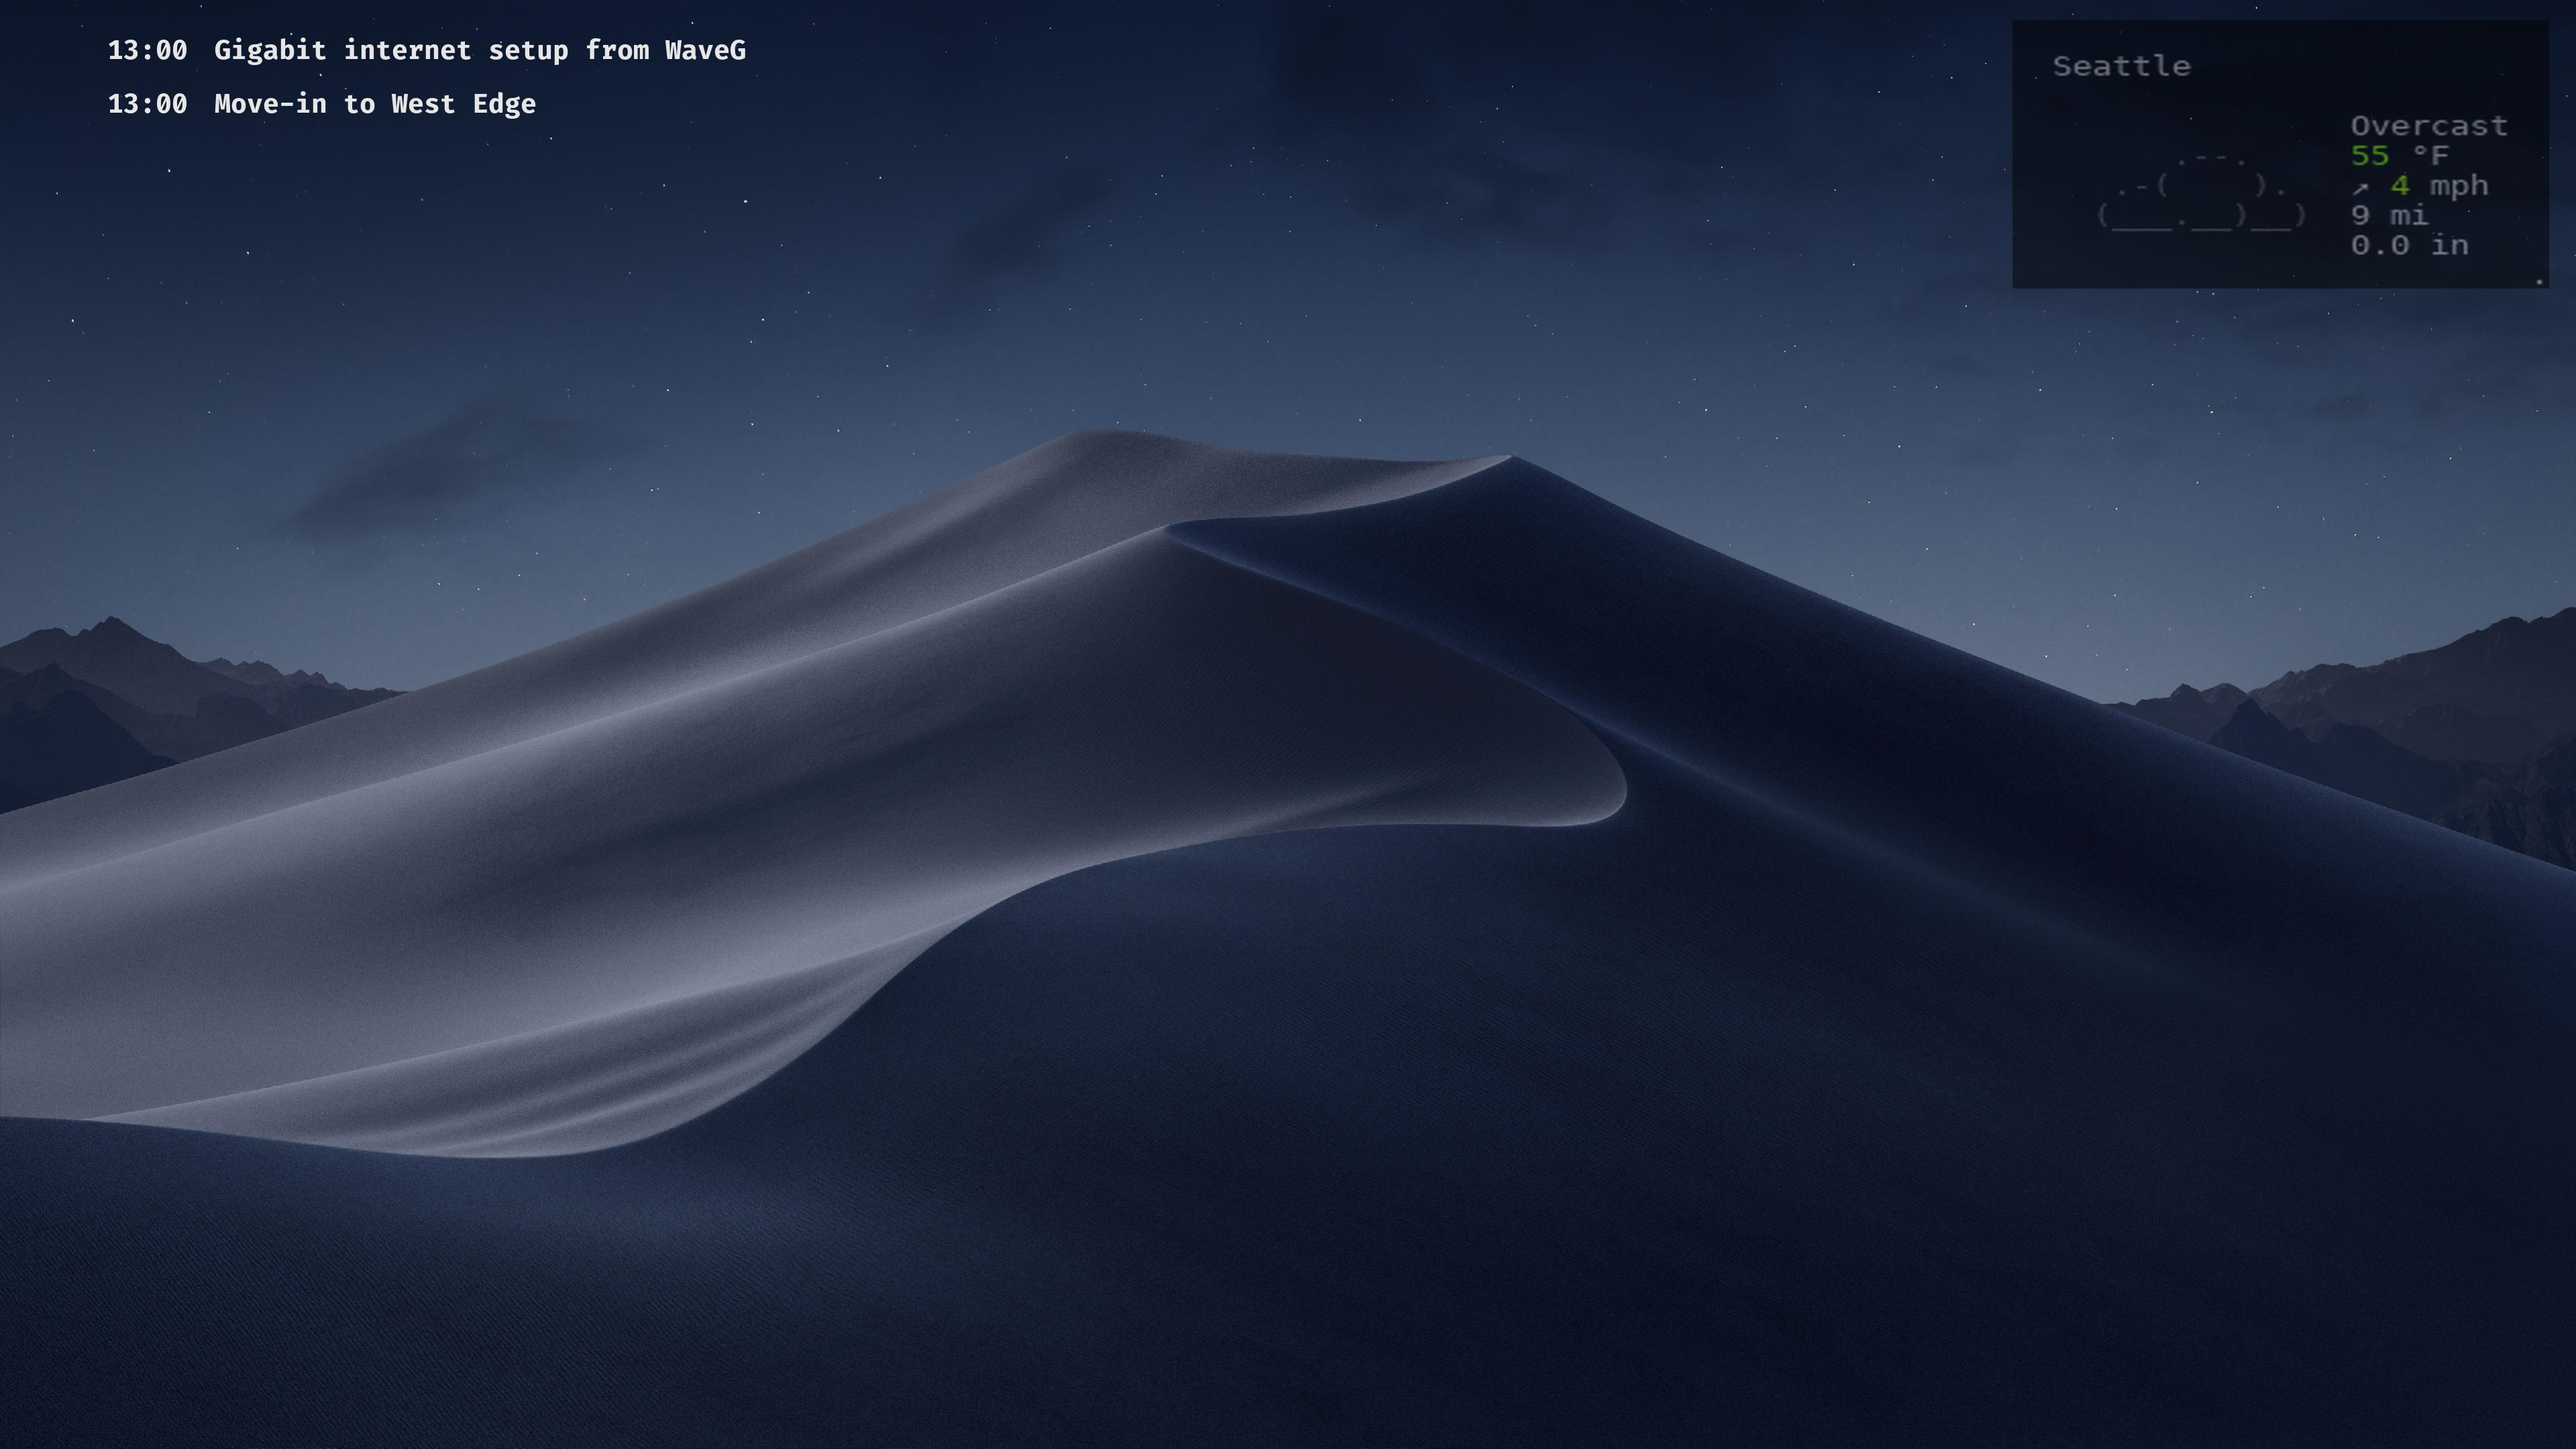
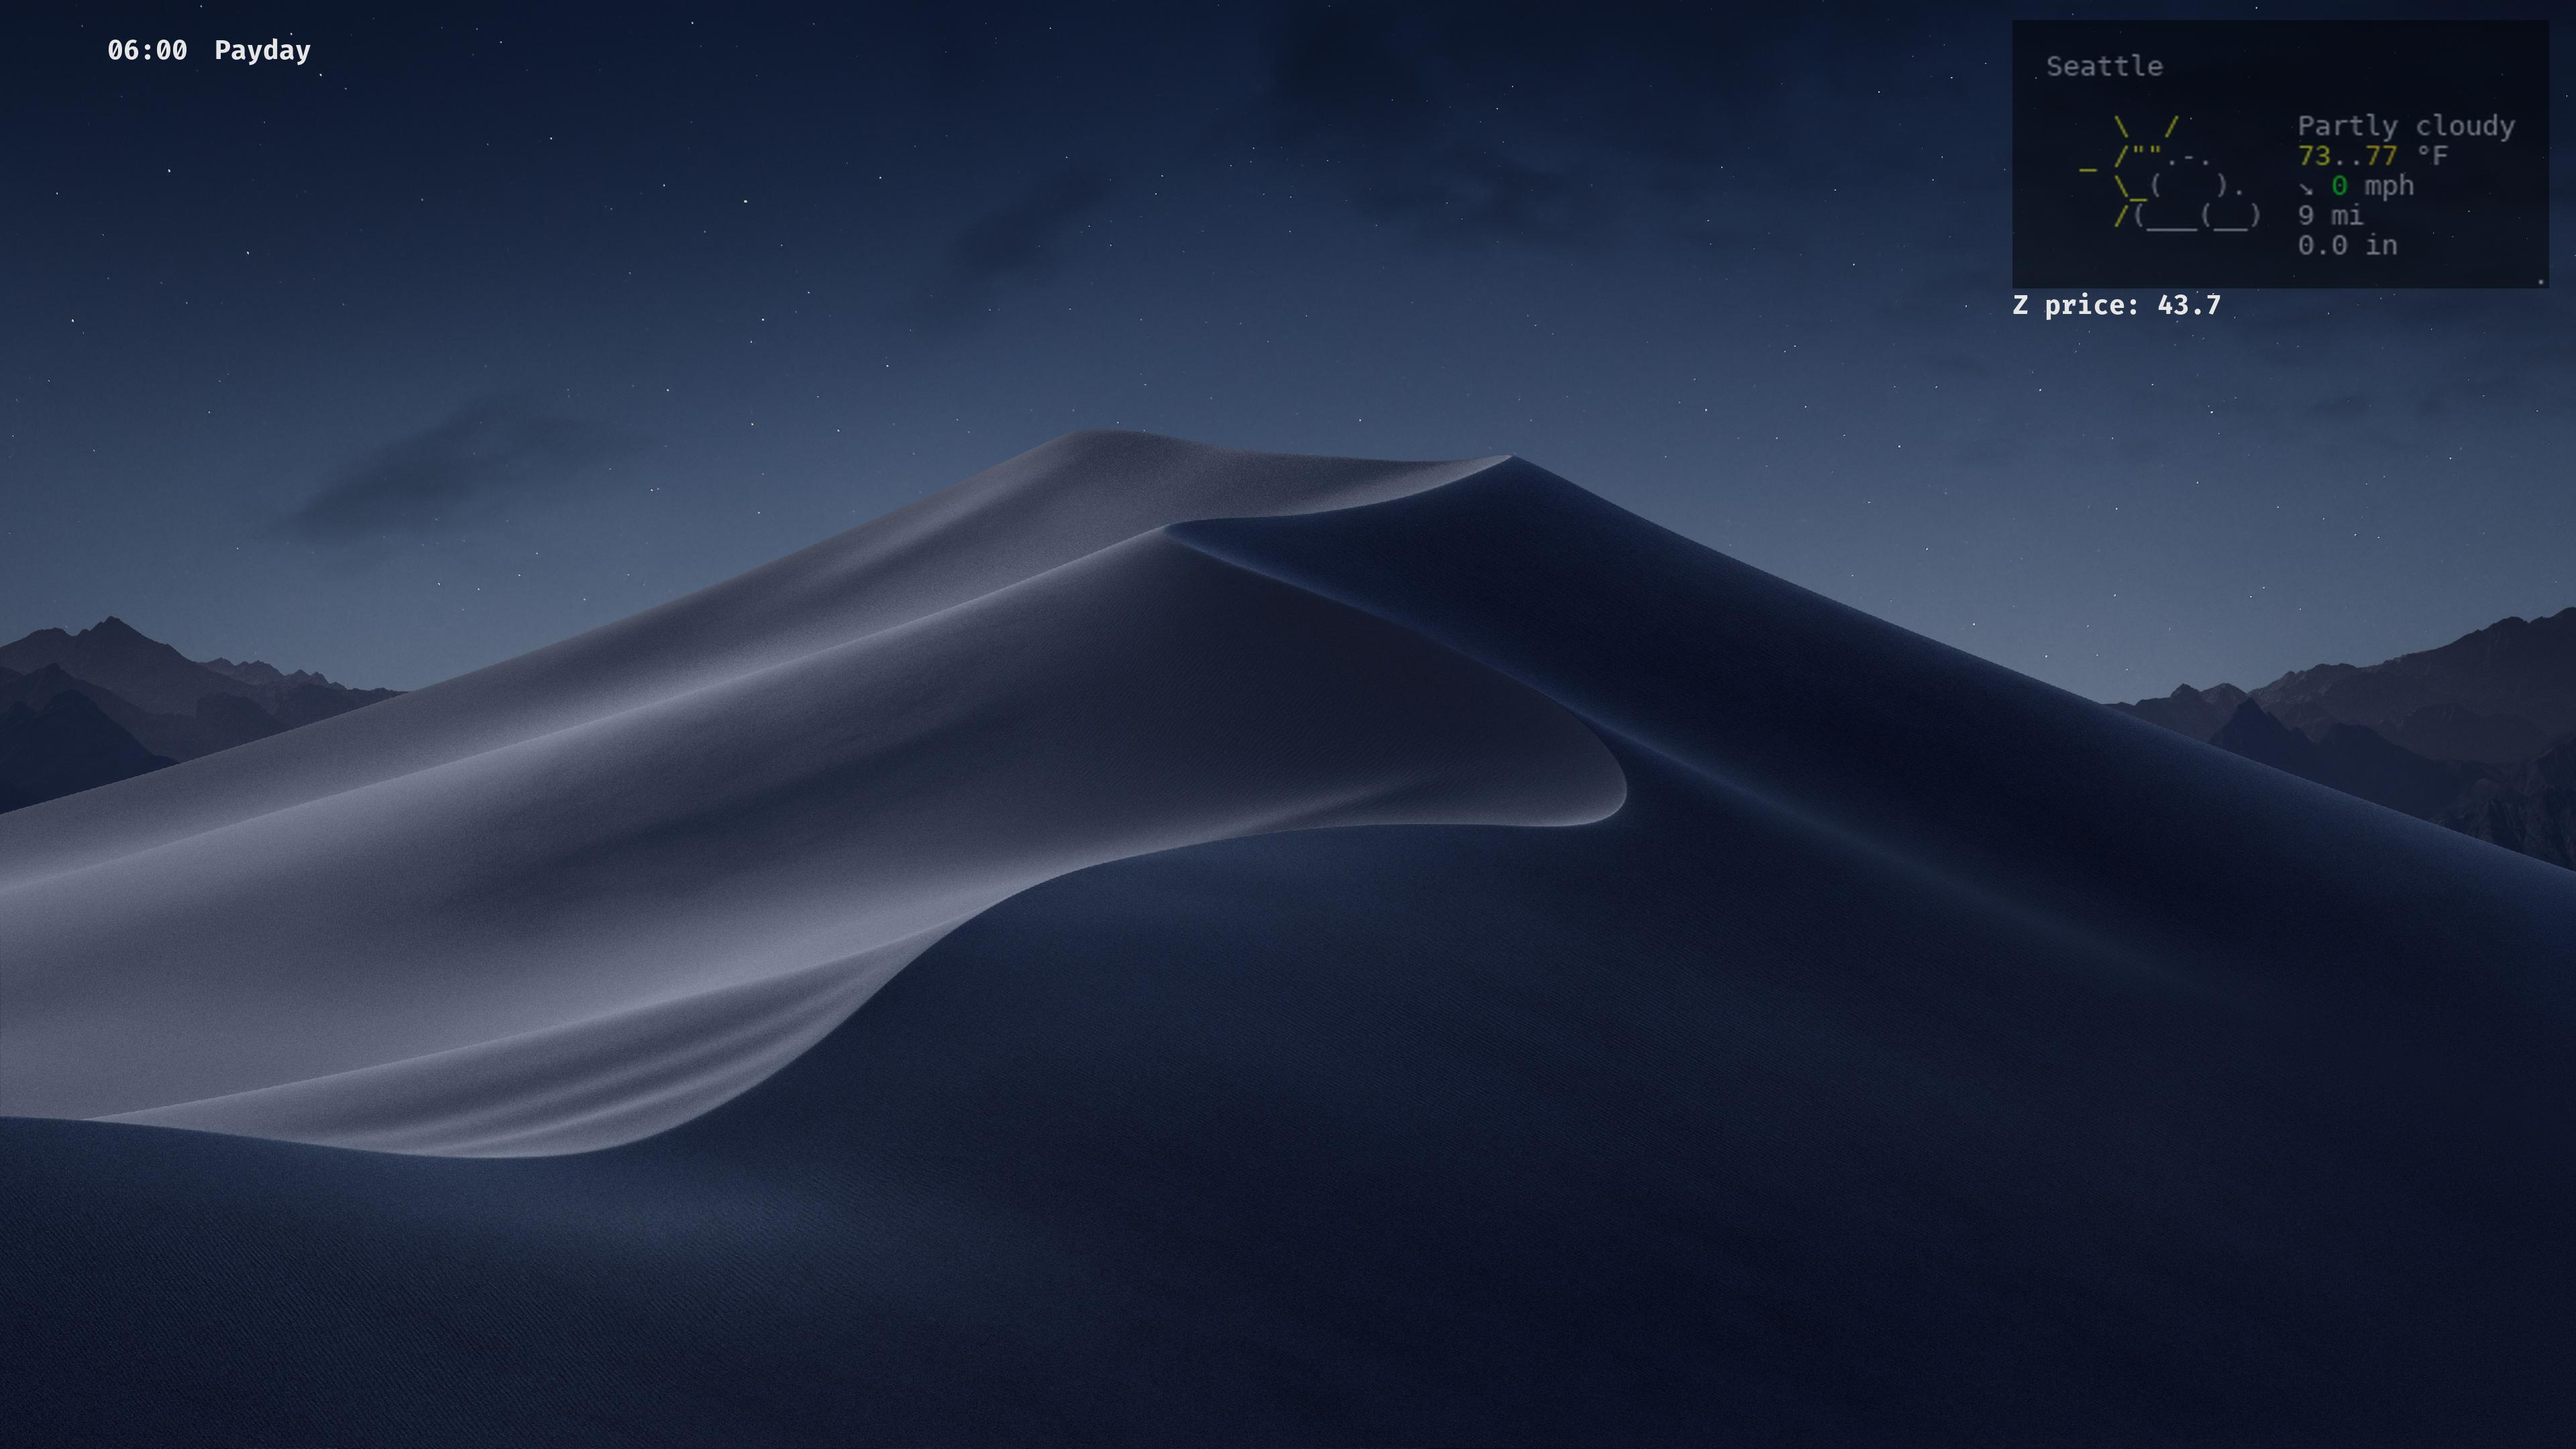
adding stock price

diff --git a/google_calendar_background.py b/google_calendar_background.py
@@ -2,6 +2,7 @@ from __future__ import print_function
 
 from datetime import datetime, timedelta
 from io import BytesIO
+import json
 
 import requests
 from PIL import Image, ImageDraw, ImageFont
@@ -28,6 +29,8 @@ def draw_events(img, events, fill=(230, 230, 230)):
         summary = event['summary']
         d.text((x_offset, y_offset + 80 * idx), time, fill=fill, font=font)
         d.text((description_offset, y_offset + 80 * idx), summary, fill=fill, font=font)
+    zillow_price = round(float(get_stock_quote('Z')), 2)
+    d.text((3000, 430), f"Z price: {zillow_price}", fill=fill, font=font)
     return img
 
 
@@ -42,6 +45,7 @@ def make_calendar(events):
     calendar = draw_events(img, events)
     weather_img = get_weather_img()
     img.paste(weather_img, (3000, 30), weather_img)
+    zillow_price = get_stock_quote('Z')
     change_desktops("./resources/black.jpg")
     calendar.save('calendar.jpg')
 
@@ -59,6 +63,12 @@ def get_weather_img():
     resp = requests.get(url="https://wttr.in/Seattle_tqp0_transparency=120.png")
     return Image.open(BytesIO(resp.content)).resize((800, 400), resample=True)
 
+def get_stock_quote(ticker):
+    with open("./alphavantage_creds.json") as creds:
+        token = json.loads(creds.read())["token"]
+    url = f"https://www.alphavantage.co/query?function=GLOBAL_QUOTE&symbol={ticker}&apikey={token}"
+    r = requests.get(url)
+    return r.json()['Global Quote']['05. price']
 
 def main():
     now = datetime.utcnow()
